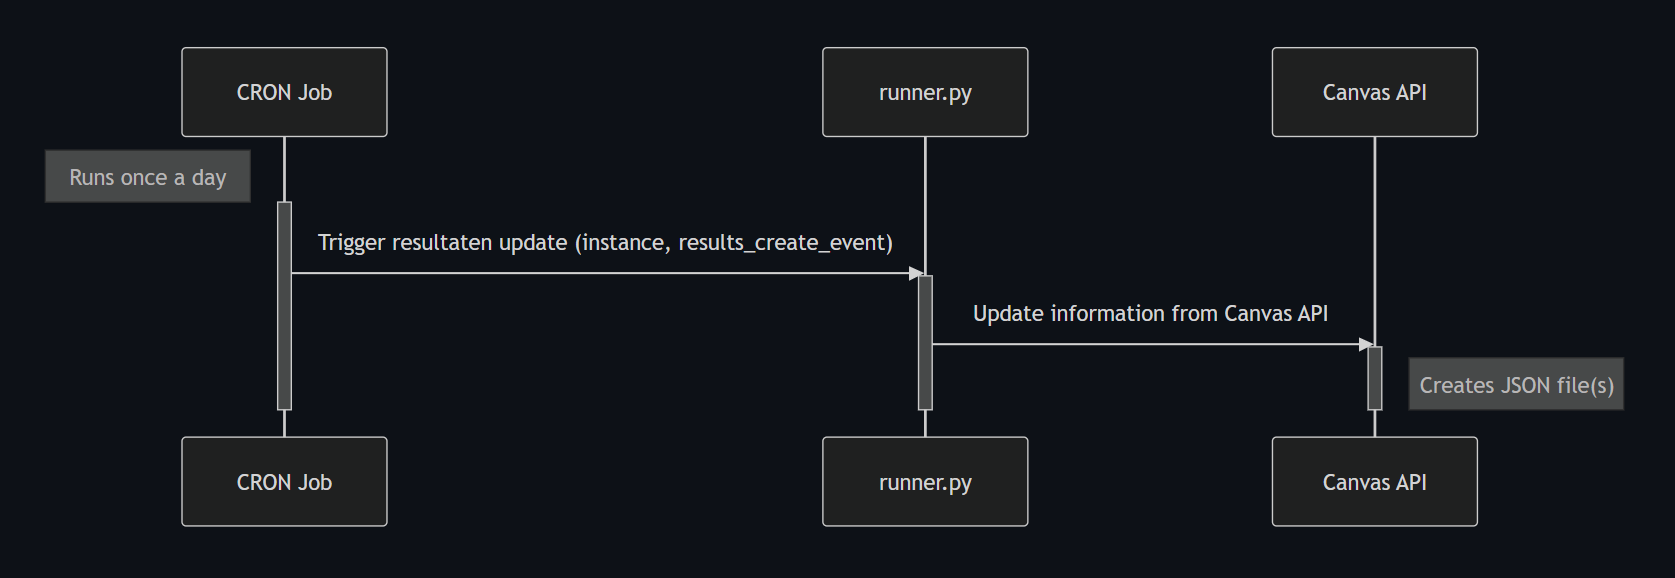
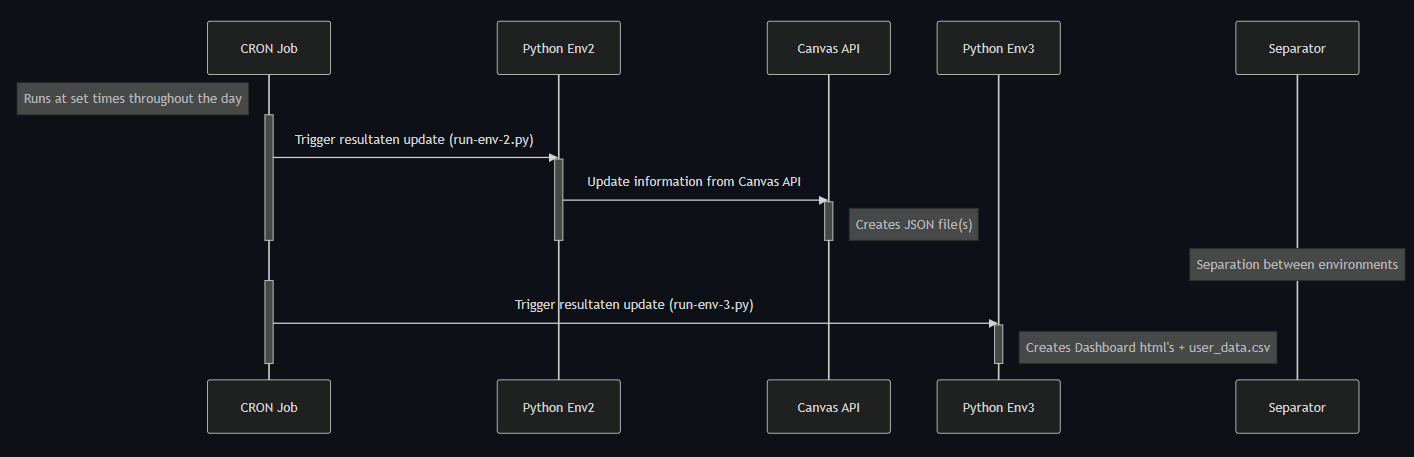
add models

diff --git a/docs/models/source_files/sequence-diagram-cron.md b/docs/models/source_files/sequence-diagram-cron.md
@@ -1,18 +1,28 @@
 ```mermaid
 sequenceDiagram
     participant CRON as CRON Job
-    participant Runner as runner.py
+    participant Env2 as Python Env2
     participant Canvas as Canvas API
+    participant Env3 as Python Env3
 
-    Note left of CRON: Runs once a day
+    Note left of CRON: Runs at set times throughout the day
 
     activate CRON
-    CRON->>Runner: Trigger resultaten update (instance, results_create_event)
-    activate Runner
-    Runner->>Canvas: Update information from Canvas API
+    CRON->>Env2: Trigger resultaten update (run-env-2.py)
+    activate Env2
+    Env2->>Canvas: Update information from Canvas API
     activate Canvas
     Note right of Canvas: Creates JSON file(s)
     deactivate Canvas
-    deactivate Runner
+    deactivate Env2
+    deactivate CRON
+
+    Note over Separator: Separation between environments
+
+    activate CRON
+    CRON->>Env3: Trigger resultaten update (run-env-3.py)
+    activate Env3
+    Note right of Env3: Creates Dashboard html's + user_data.csv
+    deactivate Env3
     deactivate CRON
 ```

diff --git a/docs/models/source_files/SequenceDiagram-authentication.md b/docs/models/source_files/SequenceDiagram-authentication.md
@@ -1,0 +1,24 @@
+```mermaid
+sequenceDiagram
+    participant U as User
+    participant F as Frontend (Browser / SPA)
+    participant B as Backend API
+    participant M as Microsoft Auth Server
+    participant A as Microsoft Authenticator
+    participant R as Resource Server
+
+    U->>F: Click "Login with Microsoft"
+    F->>B: Request /auth/login
+    B->>M: Authorization Request (client_id, redirect_uri, scope, state)
+    M->>U: Redirect to Microsoft login
+    U->>A: Approve sign-in (MFA / passwordless)
+    A->>M: MFA approval confirmation
+    M-->>B: Authorization Code (via redirect)
+    B->>M: Exchange code for tokens
+    M-->>B: Access Token + ID Token (+ Refresh Token)
+    B-->>F: Session cookie / auth success
+    F-->>U: User logged in
+    B->>R: Call API with Access Token
+    R-->>B: Protected resource response
+
+```
